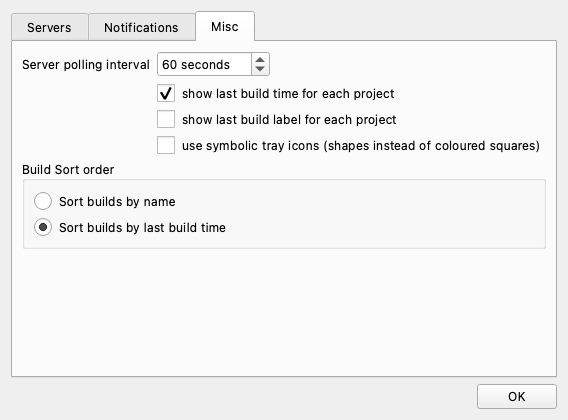
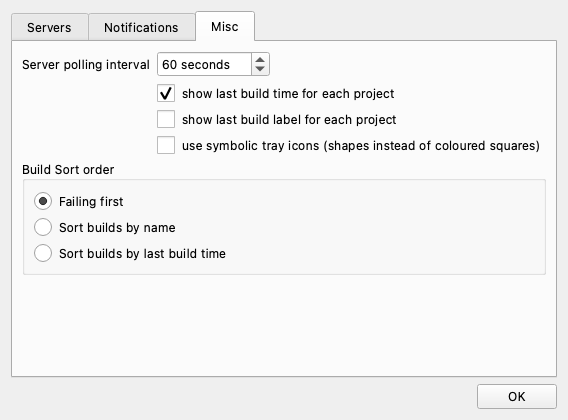
Add a Failing first sort order and make it the default for new installs
Within each section it puts building projects first, then the newest builds.
An install that saved a sort order keeps it (TASK-62).

diff --git a/buildnotifylib/ui/dialogs/preferences/misc_page.py b/buildnotifylib/ui/dialogs/preferences/misc_page.py
@@ -26,13 +26,16 @@ class MiscPage(QWidget):
         self.show_last_build_time = QCheckBox(self.tr("show last build time for each project"))
         self.show_last_build_label = QCheckBox(self.tr("show last build label for each project"))
         self.symbolic_icons = QCheckBox(self.tr("use symbolic tray icons (shapes instead of coloured squares)"))
-        self.sort_by_name = QRadioButton(self.tr("Sort builds by name"))
-        self.sort_by_last_build_time = QRadioButton(self.tr("Sort builds by last build time"))
-        self.sort_by_last_build_time.setChecked(True)
+        self.sort_buttons = {
+            SortKey.STATUS: QRadioButton(self.tr("Failing first")),
+            SortKey.NAME: QRadioButton(self.tr("Sort builds by name")),
+            SortKey.LAST_BUILD_TIME: QRadioButton(self.tr("Sort builds by last build time")),
+        }
+        self.sort_buttons[SortKey.STATUS].setChecked(True)
 
         sort_order = QVBoxLayout()
-        sort_order.addWidget(self.sort_by_name)
-        sort_order.addWidget(self.sort_by_last_build_time)
+        for button in self.sort_buttons.values():
+            sort_order.addWidget(button)
         layout = QVBoxLayout(self)
         layout.addLayout(self.display_form())
         layout.addWidget(section(self.tr("Build Sort order"), sort_order))
@@ -51,8 +54,7 @@ class MiscPage(QWidget):
         self.show_last_build_time.setChecked(choices.show_last_build_time)
         self.show_last_build_label.setChecked(choices.show_last_build_label)
         self.symbolic_icons.setChecked(choices.symbolic_icons)
-        by_name = choices.sort_key is SortKey.NAME
-        (self.sort_by_name if by_name else self.sort_by_last_build_time).setChecked(True)
+        self.sort_buttons[choices.sort_key].setChecked(True)
 
     def value(self) -> MiscChoices:
         return MiscChoices(
@@ -60,5 +62,5 @@ class MiscPage(QWidget):
             self.show_last_build_time.isChecked(),
             self.show_last_build_label.isChecked(),
             self.symbolic_icons.isChecked(),
-            SortKey.NAME if self.sort_by_name.isChecked() else SortKey.LAST_BUILD_TIME,
+            next(key for key, button in self.sort_buttons.items() if button.isChecked()),
         )

diff --git a/test/unit/sections_test.py b/test/unit/sections_test.py
@@ -1,8 +1,11 @@
+from datetime import UTC, datetime
+
 import pytest
 from hypothesis import given
 
 from buildnotifylib.core.model import Activity, Project, Status
-from buildnotifylib.core.sections import Section, grouped, section_of
+from buildnotifylib.core.sections import Section, grouped, section_of, sort_projects
+from buildnotifylib.core.settings import SortKey
 from test.strategies import project_lists
 
 
@@ -39,3 +42,25 @@ def test_should_group_in_section_order_keeping_the_order_within_and_omitting_emp
 @given(project_lists())
 def test_grouping_should_keep_every_project_once(projects):
     assert sorted(id(p) for _, members in grouped(projects) for p in members) == sorted(id(p) for p in projects)
+
+
+def built_at(name: str, status: Status, hour: int, activity: Activity = Activity.SLEEPING) -> Project:
+    at = datetime(2026, 10, 2, hour, tzinfo=UTC)
+    return Project("http://ci", name, status, activity, "http://ci/" + name, at.isoformat(), at)
+
+
+A, B = built_at("b-old", Status.FAILURE, 8), built_at("a-new", Status.FAILURE, 11)
+C = built_at("c-building", Status.FAILURE, 9, Activity.BUILDING)
+UNDATED = project("undated", Status.FAILURE)
+
+
+@pytest.mark.parametrize(
+    "key, order",
+    [
+        (SortKey.NAME, [B, A, C, UNDATED]),
+        (SortKey.LAST_BUILD_TIME, [B, C, A, UNDATED]),
+        (SortKey.STATUS, [C, B, A, UNDATED]),
+    ],
+)
+def test_should_sort_by_name_by_time_or_failing_first(key, order):
+    assert sort_projects([A, UNDATED, B, C], key) == order

diff --git a/buildnotifylib/ui/app_menu.py b/buildnotifylib/ui/app_menu.py
@@ -25,8 +25,8 @@ from buildnotifylib.core.mute import (
     with_server,
 )
 from buildnotifylib.core.ports import Connection
-from buildnotifylib.core.sections import grouped
-from buildnotifylib.core.settings import AppSettings, ServerSettings, SortKey
+from buildnotifylib.core.sections import grouped, sort_projects
+from buildnotifylib.core.settings import AppSettings, ServerSettings
 from buildnotifylib.ui.build_icons import BuildIcons
 from buildnotifylib.ui.dialogs.preferences.dialog import PreferencesDialog
 from buildnotifylib.ui.dialogs.server.dialog import ServerConfigurationDialog
@@ -69,16 +69,7 @@ class AppMenu(QtCore.QObject):
         self.create_default_menu_items()
 
     def sorted_projects(self, projects: list[Project]) -> list[Project]:
-        if self.store.settings.sort_key is SortKey.NAME:
-            return sorted(projects, key=lambda p: p.label())
-        return sorted(projects, key=self.build_time_key, reverse=True)
-
-    @staticmethod
-    def build_time_key(project: Project) -> tuple[bool, float]:
-        build_time = project.build_time
-        if build_time is None:
-            return False, 0.0
-        return True, build_time.timestamp()
+        return sort_projects(projects, self.store.settings.sort_key)
 
     def create_error_items(self, servers: Sequence[ServerSnapshot], separate: bool):
         for menu in self.error_menus:

diff --git a/buildnotifylib/core/sections.py b/buildnotifylib/core/sections.py
@@ -4,6 +4,7 @@ from enum import StrEnum
 
 from buildnotifylib.core.aggregate import rank
 from buildnotifylib.core.model import Activity, Project, Status
+from buildnotifylib.core.settings import SortKey
 
 
 class Section(StrEnum):
@@ -30,3 +31,20 @@ def grouped(projects: list[Project]) -> list[tuple[Section, list[Project]]]:
     for project in projects:
         members[section_of(project)].append(project)
     return [(section, found) for section, found in members.items() if found]
+
+
+def sort_projects(projects: list[Project], key: SortKey) -> list[Project]:
+    """Failing first puts building projects ahead within a section; it and the time sort show the newest first."""
+    if key is SortKey.NAME:
+        return sorted(projects, key=lambda p: p.label())
+    by_time = sorted(projects, key=build_time_key, reverse=True)
+    if key is SortKey.STATUS:
+        return sorted(by_time, key=lambda p: p.activity is not Activity.BUILDING)
+    return by_time
+
+
+def build_time_key(project: Project) -> tuple[bool, float]:
+    build_time = project.build_time
+    if build_time is None:
+        return False, 0.0
+    return True, build_time.timestamp()

diff --git a/test/unit/settings_test.py b/test/unit/settings_test.py
@@ -38,7 +38,7 @@ def test_should_default_to_the_2x_behaviour():
     assert (settings.interval_seconds, settings.timeout_seconds) == (120, 10)
     assert settings.custom_script == "echo #status# #projects# >> /tmp/buildnotify.log"
     assert not settings.custom_script_enabled
-    assert settings.sort_key is SortKey.LAST_BUILD_TIME
+    assert settings.sort_key is SortKey.STATUS
     assert not settings.show_last_build_label
     assert not settings.symbolic_icons
 
@@ -55,7 +55,8 @@ def test_should_prefer_a_configured_notification():
 
 
 def test_should_store_sort_keys_with_their_2x_names():
-    assert [key.value for key in SortKey] == ["sort_build_time", "sort_name"]
+    assert [SortKey.LAST_BUILD_TIME.value, SortKey.NAME.value] == ["sort_build_time", "sort_name"]
+    assert SortKey.STATUS.value == "sort_status"
 
 
 def test_should_be_on_the_layout_with_mutes():

diff --git a/test/integration/settings_store_test.py b/test/integration/settings_store_test.py
@@ -249,7 +249,7 @@ def test_should_fall_back_to_defaults_for_unreadable_values(qsettings):
 
     settings = SettingsStore(qsettings, Keystore()).settings
 
-    assert (settings.sort_key, settings.interval_seconds) == (SortKey.LAST_BUILD_TIME, 120)
+    assert (settings.sort_key, settings.interval_seconds) == (SortKey.STATUS, 120)
 
 
 class DictKeystore:
@@ -300,3 +300,9 @@ def test_should_ignore_a_pause_without_a_valid_utc_time(qsettings, value):
     qsettings.setValue("notifications/paused_until", value)
 
     assert SettingsStore(qsettings, Keystore()).settings.paused_until is None
+
+
+def test_should_keep_the_sort_an_existing_install_saved(qsettings):
+    qsettings.setValue("sort_key", "sort_build_time")
+
+    assert SettingsStore(qsettings, Keystore()).settings.sort_key is SortKey.LAST_BUILD_TIME

diff --git a/buildnotifylib/core/settings.py b/buildnotifylib/core/settings.py
@@ -66,6 +66,7 @@ DEFAULT_NOTIFICATIONS = {
 
 
 class SortKey(StrEnum):
+    STATUS = "sort_status"
     LAST_BUILD_TIME = "sort_build_time"
     NAME = "sort_name"
 
@@ -77,7 +78,7 @@ class AppSettings:
     timeout_seconds: int = 10
     custom_script: str = DEFAULT_SCRIPT
     custom_script_enabled: bool = False
-    sort_key: SortKey = SortKey.LAST_BUILD_TIME
+    sort_key: SortKey = SortKey.STATUS
     show_last_build_label: bool = False
     symbolic_icons: bool = False
     server_prompt_shown: bool = False

diff --git a/docs/usage.md b/docs/usage.md
@@ -28,7 +28,7 @@ Tweak configuration
 
 ![Misc configuration](images/misc.png)
 
-The Misc tab also has an option to show the last build label next to each project, and one to use single-colour symbolic tray icons that differ by shape.
+The Misc tab also has an option to show the last build label next to each project, and one to use single-colour symbolic tray icons that differ by shape. The sort order applies within each section of the tray menu. `Failing first`, the default for new installs, puts projects that are building at the top of their section and then shows the newest builds first. Name and last build time sort the whole section that way. An install from an earlier version keeps the sort order it had.
 
 ## GitHub Actions
 
